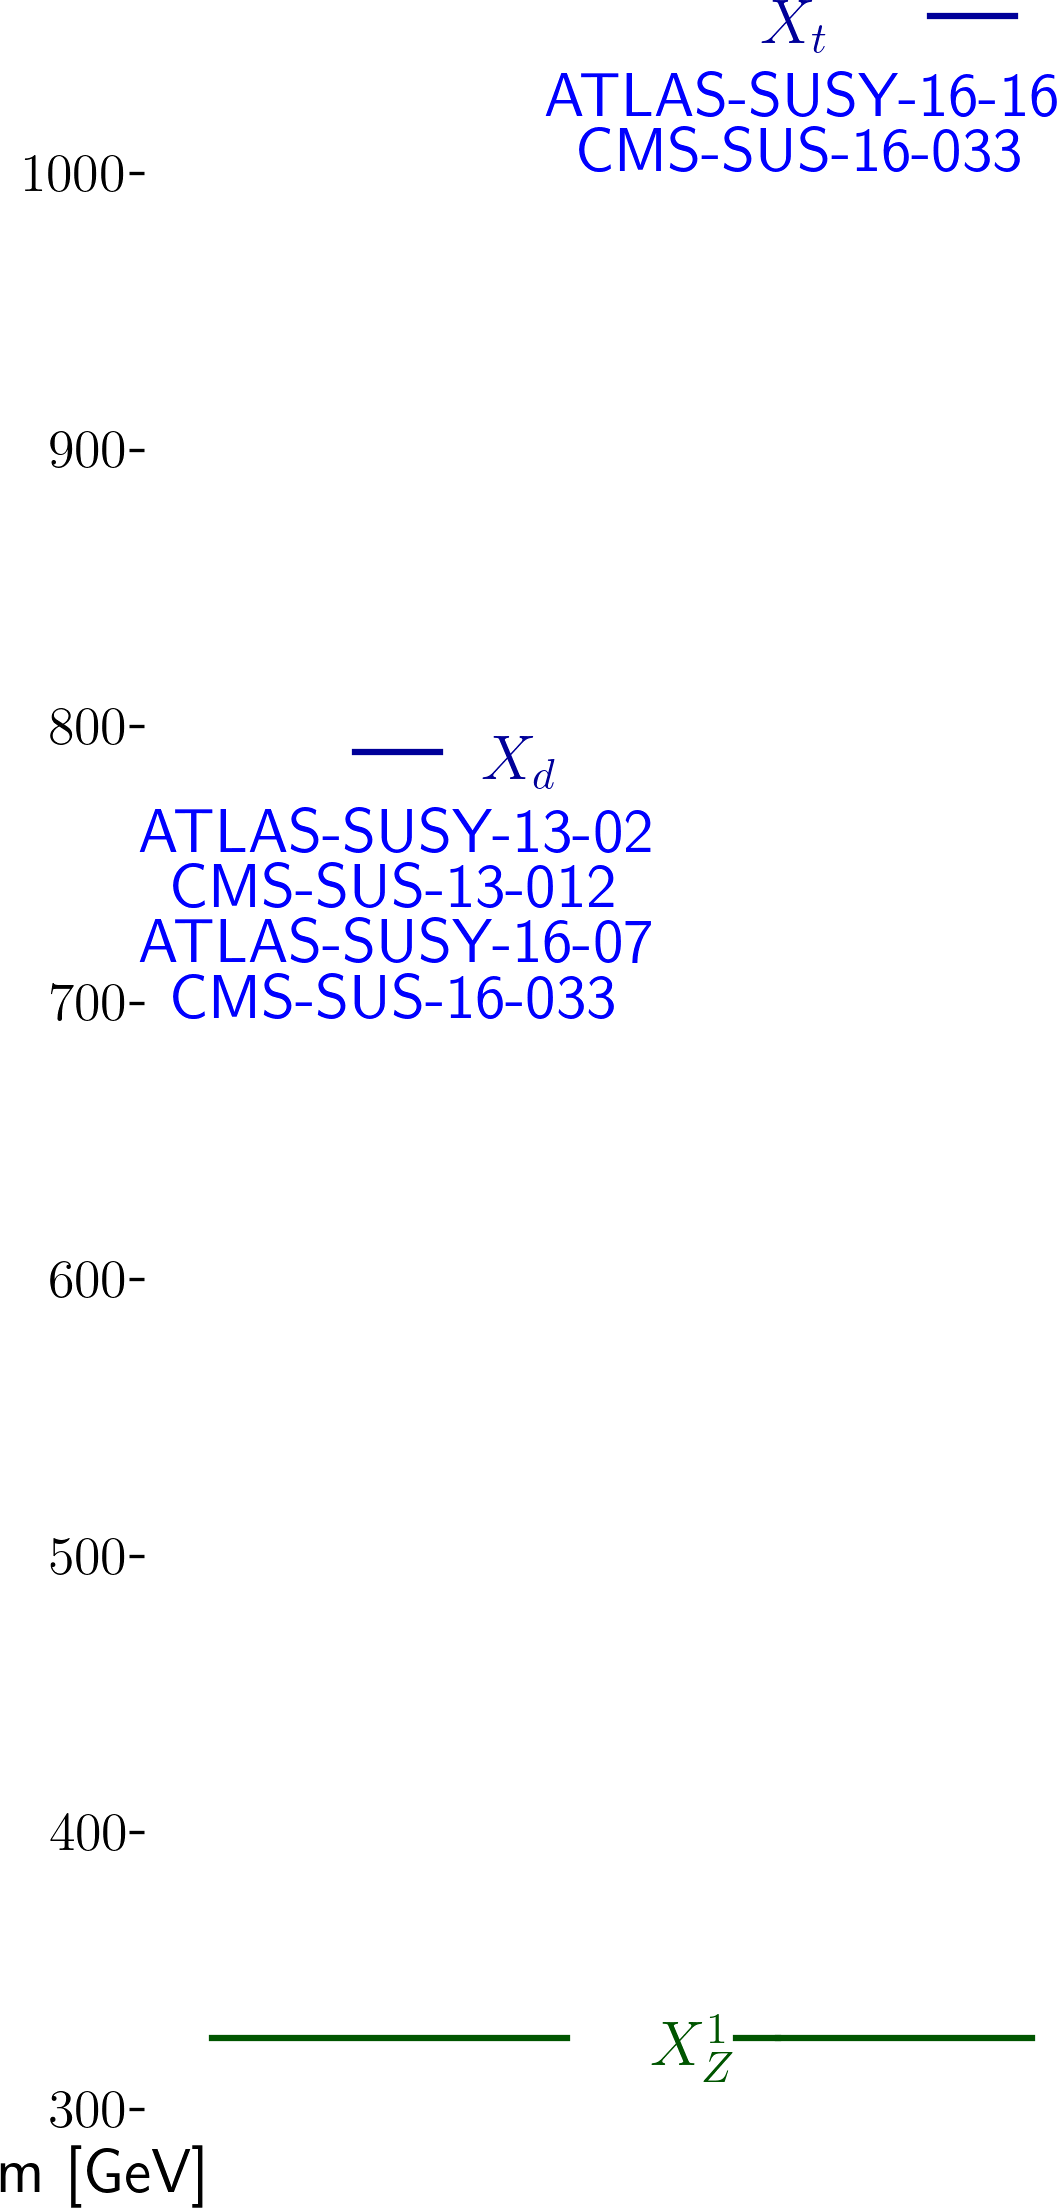
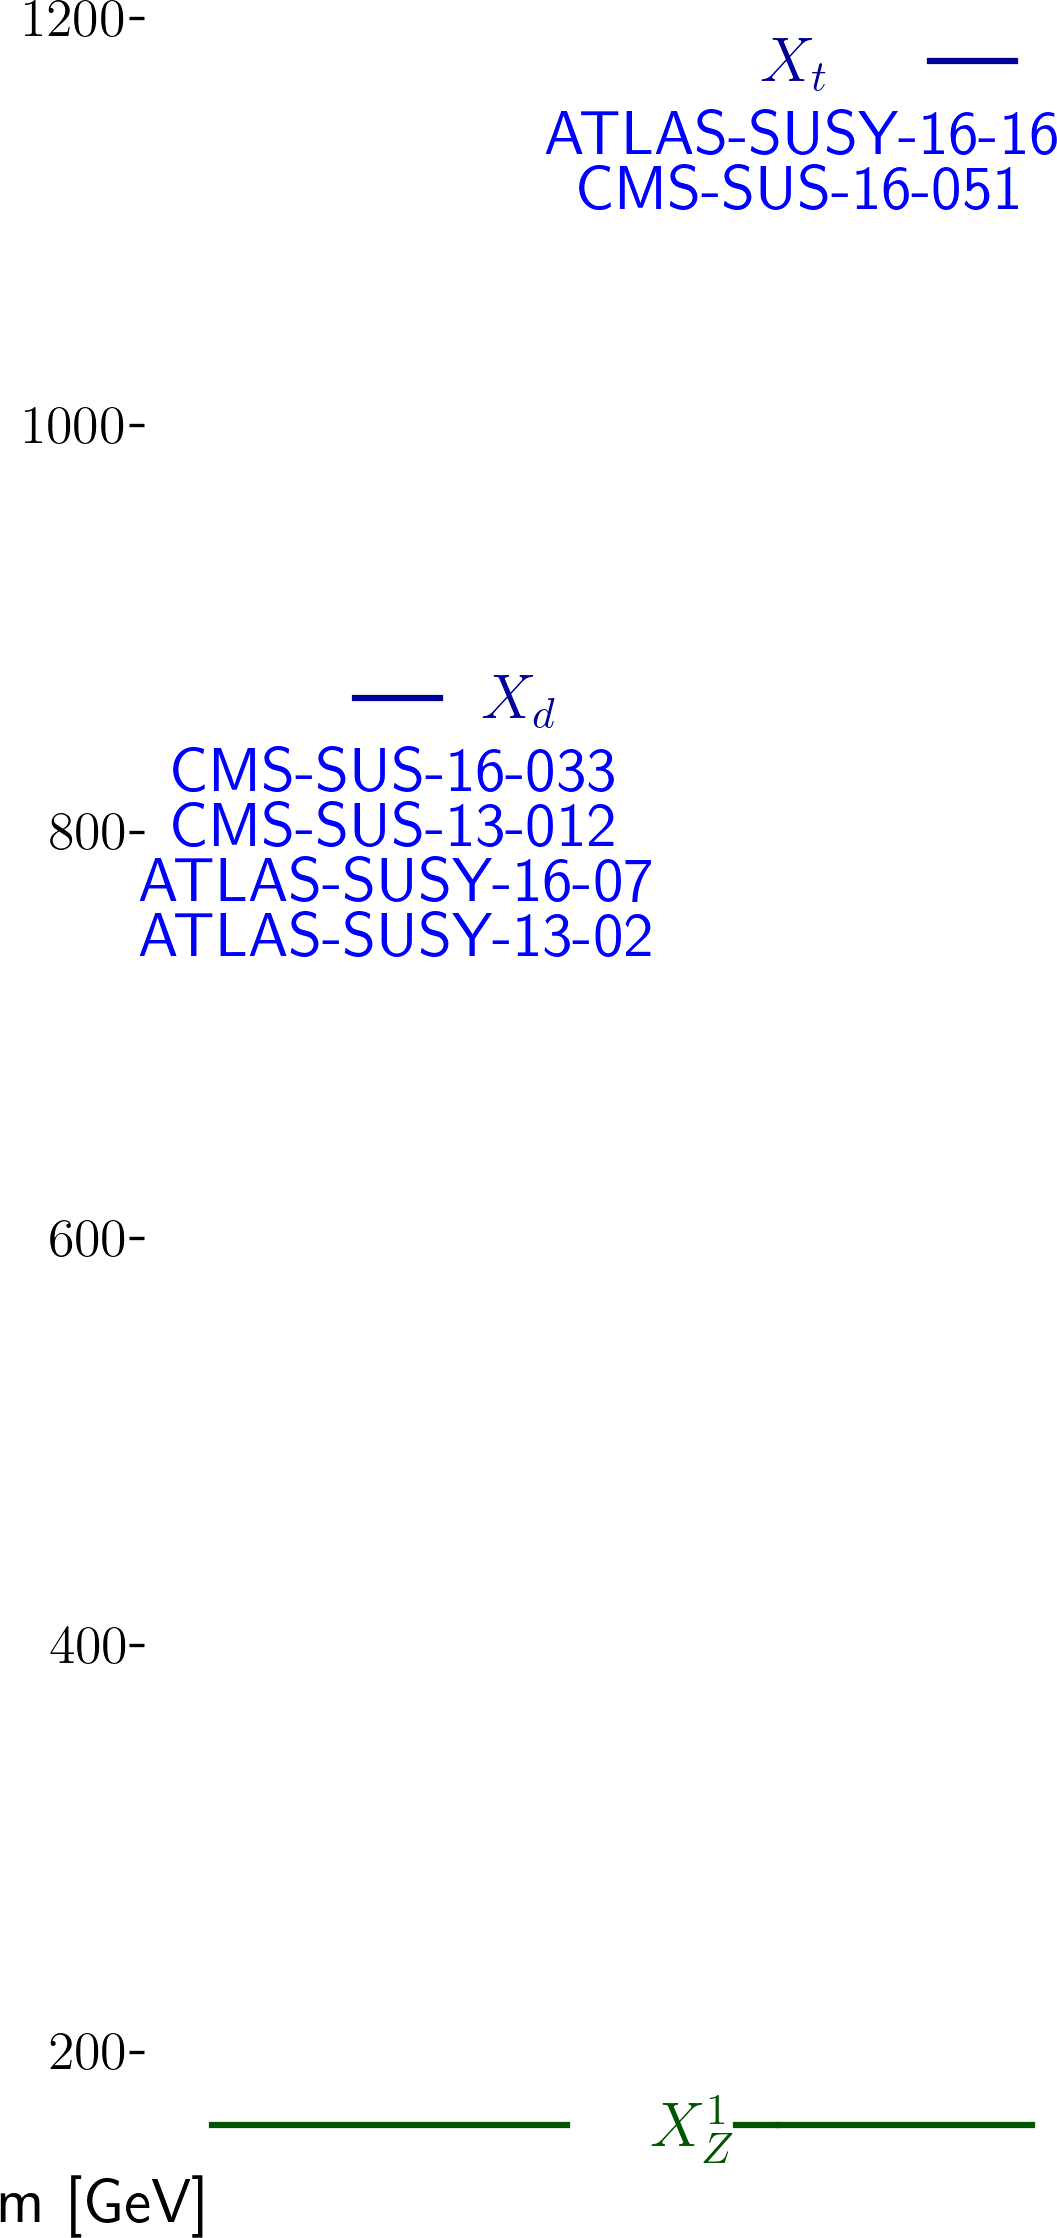
automated update by plotHiscore.py to /scratch-cbe/users/wolfgan.waltenberger/git/smodels.github.io/protomodels

diff --git a/protomodels/2020_PioneerStudy/closure_frozen3/index.html b/protomodels/2020_PioneerStudy/closure_frozen3/index.html
@@ -1,30 +1,31 @@
 <html>
 <body>
 <center>
-<table><td><h1>Current best protomodel: <i>K</i>=4.40</h1><td><img height=60px src=https://smodels.github.io/pics/banner.png></table>
+<table><td><h1>Current best protomodel: <i>K</i>=8.14</h1><td><img height=60px src=https://smodels.github.io/pics/banner.png></table>
 </center>
-<b><a href=./hiscore.slha>ProtoModel</a> <a href=./pmodel.py>(dict)</a> produced with <a href=https://smodels.github.io/docs/Validation124doublefrozen3>database v1.2.4doublefrozen3</a>, combination strategy <a href=./matrix_aggressive.png>aggressive</a> in walker 16 step 203.</b> <i>K</i> plots for: <a href=./M1000022.png?15050840>X<sub>Z</sub><sup>1</sup></a>, <a href=./M1000006.png?15050840>X<sub>t</sub></a>, <a href=./M1000001.png?15050840>X<sub>d</sub></a>. HPD plots for: <a href=./llhd1000006.png?15050840>X<sub>t</sub></a>, <a href=./llhd1000001.png?15050840>X<sub>d</sub></a>. SSM plots for: <a href=./ssm_-1000006_1000006.png?15050840>(x&#772;<sub>t</sub>,X<sub>t</sub>)</a><br>
+<b><a href=./hiscore.slha>ProtoModel</a> <a href=./pmodel.py>(dict)</a> produced with <a href=https://smodels.github.io/docs/Validation124frozen3>database v1.2.4frozen3</a>, combination strategy <a href=./matrix_aggressive.png>aggressive</a> in walker 45 step 804.</b> <i>K</i> plots for: <a href=./M1000022.png?15311828>X<sub>Z</sub><sup>1</sup></a>, <a href=./M1000006.png?15311828>X<sub>t</sub></a>, <a href=./M1000001.png?15311828>X<sub>d</sub></a>. HPD plots for: <a href=./llhd1000006.png?15311828>X<sub>t</sub></a>, <a href=./llhd1000001.png?15311828>X<sub>d</sub></a>. SSM plots for: <a href=./ssm_-1000006_1000006.png?15311828>(x&#772;<sub>t</sub>,X<sub>t</sub>)</a><br>
 <table width=80%>
 <tr><td>
 <br><b>24 predictions available. Highest r values are:</b><br><ul>
-<li><a href=http://cms-results.web.cern.ch/cms-results/public-results/publications/SUS-19-006/index.html>CMS-SUS-19-006</a>:T2 r=1.30, r<sub>exp</sub>=1.30<br>
-<li><a href=http://cms-results.web.cern.ch/cms-results/public-results/publications/SUS-16-049/index.html>CMS-SUS-16-049</a>:T2tt r=1.24, r<sub>exp</sub>=1.24<br>
-<li><a href=http://cms-results.web.cern.ch/cms-results/public-results/publications/SUS-16-050/index.html>CMS-SUS-16-050</a>:T2tt r=1.18, r<sub>exp</sub>=1.18<br>
-<li><a href=http://cms-results.web.cern.ch/cms-results/public-results/publications/SUS-19-006/index.html>CMS-SUS-19-006</a>:T2tt r=1.17, r<sub>exp</sub>=1.17<br>
-<li><a href=http://cms-results.web.cern.ch/cms-results/public-results/publications/SUS-16-033/index.html>CMS-SUS-16-033</a>:T2 r=0.98, r<sub>exp</sub>=0.98<br>
+<li><a href=http://cms-results.web.cern.ch/cms-results/public-results/publications/SUS-19-006/index.html>CMS-SUS-19-006</a>:T2tt r=0.63, r<sub>exp</sub>=N/A<br>
+<li><a href=http://cms-results.web.cern.ch/cms-results/public-results/publications/SUS-16-050/index.html>CMS-SUS-16-050</a>:T2tt r=0.58, r<sub>exp</sub>=N/A<br>
+<li><a href=http://cms-results.web.cern.ch/cms-results/public-results/publications/SUS-16-049/index.html>CMS-SUS-16-049</a>:T2tt r=0.57, r<sub>exp</sub>=N/A<br>
+<li><a href=http://cms-results.web.cern.ch/cms-results/public-results/publications/SUS-19-006/index.html>CMS-SUS-19-006</a>:T2 r=0.51, r<sub>exp</sub>=N/A<br>
+<li><a href=http://cms-results.web.cern.ch/cms-results/public-results/publications/SUS-16-033/index.html>CMS-SUS-16-033</a>:T2tt r=0.48, r<sub>exp</sub>=N/A<br>
 </ul>
 <td><br><b>K values without analyses: (contribution)</b><br>
 <ul>
-<li> <a href=https://twiki.cern.ch/twiki/bin/view/CMSPublic/PhysicsResultsSUS13012>CMS-SUS-13-012</a>: 4.92 (-10%)
-<li> <a href=https://atlas.web.cern.ch/Atlas/GROUPS/PHYSICS/PAPERS/SUSY-2013-02/>ATLAS-SUSY-2013-02</a>: 4.65 (-5%)
-<li> <a href=http://cms-results.web.cern.ch/cms-results/public-results/publications/SUS-16-033/index.html>CMS-SUS-16-033</a>: 4.05 (7%)
-<li> <a href=https://atlas.web.cern.ch/Atlas/GROUPS/PHYSICS/PAPERS/SUSY-2016-16/>ATLAS-SUSY-2016-16</a>: 2.81 (30%)
-<li> <a href=https://atlas.web.cern.ch/Atlas/GROUPS/PHYSICS/PAPERS/SUSY-2016-07/>ATLAS-SUSY-2016-07</a>: 0.34 (78%)
-<td><img width=600px src=./texdoc.png?1608050840>
-<br><font size=-1>Last updated: Tue Dec 15 17:47:20 2020</font>
+<li> <a href=http://cms-results.web.cern.ch/cms-results/public-results/publications/SUS-16-051/index.html>CMS-SUS-16-051</a>: 0.45 (15%)
+<li> <a href=http://cms-results.web.cern.ch/cms-results/public-results/publications/SUS-16-033/index.html>CMS-SUS-16-033</a>: 0.45 (15%)
+<li> <a href=https://twiki.cern.ch/twiki/bin/view/CMSPublic/PhysicsResultsSUS13012>CMS-SUS-13-012</a>: 0.45 (15%)
+<li> <a href=https://atlas.web.cern.ch/Atlas/GROUPS/PHYSICS/PAPERS/SUSY-2013-02/>ATLAS-SUSY-2013-02</a>: 0.39 (15%)
+<li> <a href=https://atlas.web.cern.ch/Atlas/GROUPS/PHYSICS/PAPERS/SUSY-2016-07/>ATLAS-SUSY-2016-07</a>: -0.80 (18%)
+<li> <a href=https://atlas.web.cern.ch/Atlas/GROUPS/PHYSICS/PAPERS/SUSY-2016-16/>ATLAS-SUSY-2016-16</a>: -2.22 (21%)
+<td><img width=600px src=./texdoc.png?1608311828>
+<br><font size=-1>Last updated: Fri Dec 18 18:17:08 2020</font>
 </table><table style="width:80%">
-<td width=45%><img height=580px src=./ruler.png?1608050840><td width=55%><img height=380px src=./decays.png?1608050840>
-<font size=-3><iframe type="text/html" height="220px" width="100%s" frameborder="0" src="./rawnumbers.html?1608050840"></iframe></font>
+<td width=45%><img height=580px src=./ruler.png?1608311828><td width=55%><img height=380px src=./decays.png?1608311828>
+<font size=-3><iframe type="text/html" height="220px" width="100%s" frameborder="0" src="./rawnumbers.html?1608311828"></iframe></font>
 </table>
 </body>
 </html>

diff --git a/protomodels/2020_PioneerStudy/closure_frozen3/rawnumbers.html b/protomodels/2020_PioneerStudy/closure_frozen3/rawnumbers.html
@@ -1,9 +1,10 @@
 <table>
 <tr><th>Analysis Name</th><th>Type</th><th>Dataset</th><th>Topos</th><th>Observed</th><th>Expected</th><th>Approx &sigma;</th><th>Particles</th><th>Signal</th>
 </tr>
-<tr><td><a href=https://atlas.web.cern.ch/Atlas/GROUPS/PHYSICS/PAPERS/SUSY-2013-02/>ATLAS-SUSY-2013-02</a></td><td>em</td> <td>SR2jm</td><td>T2</td><td>791.45</td><td>760 +/- 50</td><td style="text-align:right">0.6 &sigma;</td><td style="text-align:right">X<sub>d</sub></td><td style="text-align:right">31.45</td></tr>
-<tr><td><a href=https://atlas.web.cern.ch/Atlas/GROUPS/PHYSICS/PAPERS/SUSY-2016-07/>ATLAS-SUSY-2016-07</a></td><td>em</td> <td>2j_Meff_1200</td><td>T2</td><td>614.32</td><td>526 +/- 31</td><td style="text-align:right">2.3 &sigma;</td><td style="text-align:right">X<sub>d</sub></td><td style="text-align:right">88.32</td></tr>
+<tr><td><a href=https://atlas.web.cern.ch/Atlas/GROUPS/PHYSICS/PAPERS/SUSY-2013-02/>ATLAS-SUSY-2013-02</a></td><td>em</td> <td>SR4jt</td><td>T2</td><td>2.73</td><td>2.5 +/- 1</td><td style="text-align:right">0.1 &sigma;</td><td style="text-align:right">X<sub>d</sub></td><td style="text-align:right">0.23</td></tr>
+<tr><td><a href=https://atlas.web.cern.ch/Atlas/GROUPS/PHYSICS/PAPERS/SUSY-2016-07/>ATLAS-SUSY-2016-07</a></td><td>em</td> <td>2j_Meff_1200</td><td>T2</td><td>570.16</td><td>526 +/- 31</td><td style="text-align:right">1.1 &sigma;</td><td style="text-align:right">X<sub>d</sub></td><td style="text-align:right">44.16</td></tr>
 <tr><td><a href=https://atlas.web.cern.ch/Atlas/GROUPS/PHYSICS/PAPERS/SUSY-2016-16/>ATLAS-SUSY-2016-16</a></td><td>em</td> <td>tN_high</td><td>T2tt</td><td>7.73</td><td>3.8 +/- 1</td><td style="text-align:right">1.8 &sigma;</td><td style="text-align:right">X<sub>t</sub></td><td style="text-align:right">3.93</td></tr>
-<tr><td><a href=https://twiki.cern.ch/twiki/bin/view/CMSPublic/PhysicsResultsSUS13012>CMS-SUS-13-012</a></td><td>em</td> <td>8NJetinf_500HT8 ...</td><td>T2</td><td>4.80</td><td>4.8 +/- 2.3</td><td style="text-align:right">0.0 &sigma;</td><td style="text-align:right">X<sub>d</sub></td><td style="text-align:right">0.00</td></tr>
-<tr><td><a href=http://cms-results.web.cern.ch/cms-results/public-results/publications/SUS-16-033/index.html>CMS-SUS-16-033</a></td><td>em</td> <td>SR1_Njet2_Nb0_H ...</td><td>T2, T2tt</td><td>8000.72</td><td>7584 +/- 433</td><td style="text-align:right">0.9 &sigma;</td><td style="text-align:right">X<sub>d</sub>, X<sub>t</sub></td><td style="text-align:right">416.72</td></tr>
+<tr><td><a href=https://twiki.cern.ch/twiki/bin/view/CMSPublic/PhysicsResultsSUS13012>CMS-SUS-13-012</a></td><td>ul</td> <td>-</td><td>T2</td><td> 12.3 fb </td><td> 9.6 fb</td><td style="text-align:right">0.5 &sigma;</td><td style="text-align:right">X<sub>d</sub></td><td style="text-align:right">2.66 fb</td></tr>
+<tr><td><a href=http://cms-results.web.cern.ch/cms-results/public-results/publications/SUS-16-033/index.html>CMS-SUS-16-033</a></td><td>ul</td> <td>-</td><td>T2</td><td> 40.1 fb </td><td> 16.1 fb</td><td style="text-align:right">2.9 &sigma;</td><td style="text-align:right">X<sub>d</sub></td><td style="text-align:right">23.95 fb</td></tr>
+<tr><td><a href=http://cms-results.web.cern.ch/cms-results/public-results/publications/SUS-16-051/index.html>CMS-SUS-16-051</a></td><td>ul</td> <td>-</td><td>T2tt</td><td> 7.0 fb </td><td> 4.4 fb</td><td style="text-align:right">1.2 &sigma;</td><td style="text-align:right">X<sub>t</sub></td><td style="text-align:right">2.62 fb</td></tr>
 </table>

diff --git a/protomodels/2020_PioneerStudy/closure_frozen3/pmodel.py b/protomodels/2020_PioneerStudy/closure_frozen3/pmodel.py
@@ -1,1 +1,1 @@
-{'masses': {1000022: 315.763, 1000001: 780.775, 1000006: 1046.88}, 'ssmultipliers': {(1000022, 1000022): 0.0, (1000001, 1000001): 1.008, (-1000001, 1000001): 1.008, (-1000001, -1000001): 1.008, (1000001, 1000022): 1.008, (-1000001, 1000022): 1.008, (1000006, 1000006): 0.998, (-1000006, 1000006): 0.998, (-1000006, -1000006): 0.998, (1000006, 1000022): 0.998, (-1000006, 1000022): 0.998, (1000001, 1000006): 0.998, (-1000006, 1000001): 0.998, (-1000001, 1000006): 0.998, (-1000006, -1000001): 0.998}, 'decays': {1000022: {}, 1000001: {(1000022, 1): 1.0}, 1000006: {(1000022, 6): 1.0}}, 'timestamp': 'Tue Dec 15 17:47:11 2020', 'Z': 2.784, 'K': 4.401, 'walkerid': 16, 'step': 203, 'codever': '1.0', 'dbver': '1.2.4doublefrozen3'}
+{'masses': {1000022: 153.931, 1000006: 1168.98, 1000001: 855.489}, 'ssmultipliers': {(1000022, 1000022): 0.064, (1000006, 1000006): 1.514, (-1000006, 1000006): 1.514, (-1000006, -1000006): 1.514, (1000006, 1000022): 1.514, (-1000006, 1000022): 1.514, (1000001, 1000001): 0.984, (-1000001, 1000001): 0.984, (-1000001, -1000001): 0.984, (1000001, 1000022): 0.984, (-1000001, 1000022): 0.984, (1000001, 1000006): 1.059, (-1000001, 1000006): 1.059, (-1000006, 1000001): 1.059, (-1000006, -1000001): 1.059}, 'decays': {1000022: {}, 1000006: {(1000022, 6): 1.0}, 1000001: {(1000022, 1): 1.0}}, 'timestamp': 'Fri Dec 18 18:16:57 2020', 'Z': 3.419, 'K': 8.143, 'walkerid': 45, 'step': 804, 'codever': '1.0', 'dbver': '1.2.4frozen3'}
